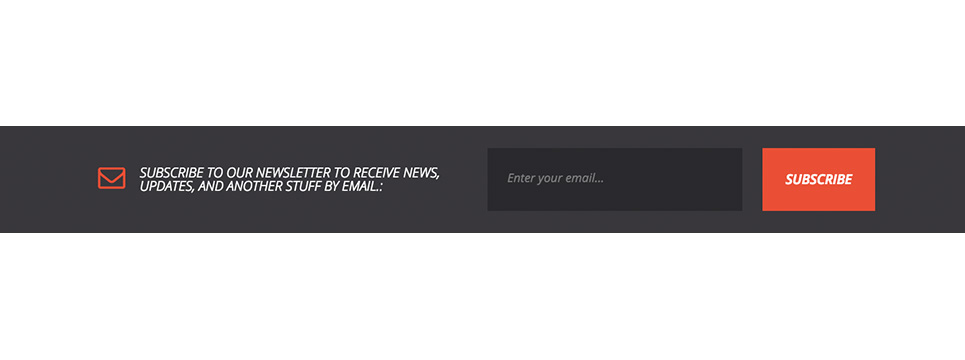
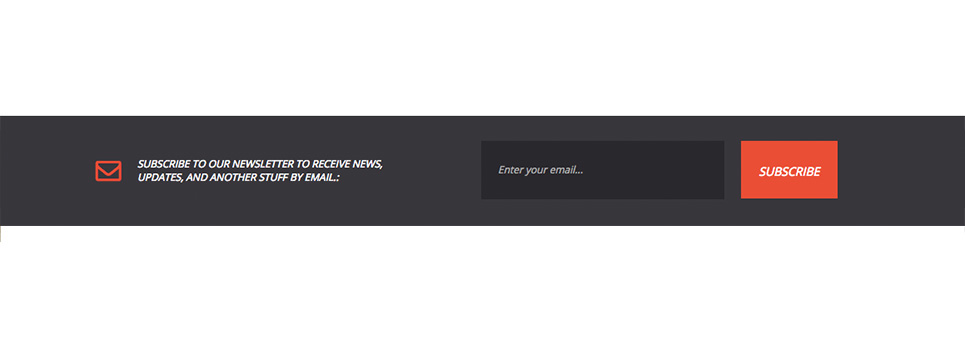
Week 4 WIP

Changed region(s): [[0.0, 0.3056, 1.0, 0.6722], [0.0933, 0.4278, 0.4663, 0.55], [0.4974, 0.4583, 0.6218, 0.5194]]

diff --git a/components/8/component.css b/components/8/component.css
@@ -3,6 +3,125 @@
 COMPONENT STYLESHEET
 ================================================================================ */
 
-/* HEADER ======================================== */
+/* FOOTER ======================================== */
+html { font-size: 62.5%; 
+        width: 100%;}
+body {
+    background-color: #383838;
+    font: 1.6rem sans-serif;
+    max-width: 960px;
+    margin: 0 auto;
+}
 
-/* HEADER ======================================== */
+footer {
+    width: 100%;
+    overflow: auto;
+}
+
+footer h4, footer h2 {
+    font-size: 1.2rem;
+    font-weight: bold;
+    color: #fff;
+    text-transform: uppercase;
+    padding-bottom: 30px;
+}
+
+
+
+input {
+    width: 100%;   
+    padding: 8%;
+    text-transform: uppercase;
+    font-size: .9rem;
+}
+
+input[type="submit"] {
+    background: #eee;
+    font-weight: bold;
+    color: #888;
+    margin-bottom: 2rem;
+}
+
+nav, form {
+    width: calc(100% / 4);
+    display: block;
+    float: left;
+    padding: 2% 7%;
+    padding-bottom: 1000em;
+    margin-bottom: -1000em;
+}
+
+form {
+    background-color: #e01204;
+    padding: 2% 2% 1000em 2%;
+}
+
+form h2 {
+   font-size: 1.5rem;
+}
+
+nav:after {
+    content: "";
+    display: table;
+    clear: both;
+}
+
+footer li a {
+    font-size: 1.2rem;
+    text-transform: uppercase;
+    line-height: 2.5rem;
+    color: #888;
+}
+
+footer:last-child {
+    width: 100%;
+    background: #2c2c2c;
+    color: #888;
+    font-size: .6rem;
+    padding: 1rem 0rem;
+}
+
+footer:last-child p {
+ padding-left: 10%;   
+}
+    
+a.home {
+    color: #e01204;
+}
+
+form li a {
+    display: inline-block; 
+    float: left;
+    width: 2rem;
+    height: 2rem;
+    padding-right: 2.5rem;
+    background: #000;
+    text-indent: -9999px;
+    margin-bottom: 6rem;
+}
+
+a[href*="twitter"] {
+    background: url(images/twitter.svg) no-repeat;
+    background-size: 2rem;
+    color: rgba(255,255,255, .6);
+    opacity: .6;
+}
+
+a[href*="facebook"] {
+    background: url(images/facebook.svg) no-repeat;
+    background-size: 2rem;
+    opacity: .6;
+}
+
+a[href*="youtube"] {
+    background: url(images/youtube.svg) no-repeat;
+    background-size: 2rem;
+    opacity: .6;
+}
+
+
+a[href*="google"] {
+    background: url(images/google.svg) no-repeat;
+    background-size: 2rem;
+    opacity: .6;
+}

diff --git a/components/3/component.html b/components/3/component.html
@@ -31,6 +31,30 @@
 
 <p>Make sure you add a copy to your bookshelf.</p>
                 <ul>
+                    <li><a href="http://www.facebook.com">Facebook</a></li>
+                    <li><a href="http://www.twitter.com">Twitter</a></li>
+                    <li><a href="http://www.pinterest.com">Pinterest</a></li>
+                    <li><a href="http://www.google.com/+">Google+</a></li>
+                    <li><p>8 Shares</p></li>
+                    <li><p>Posted by Glenn on June 19, 2015</p></li>
+
+                <li><a href="#">Comment now</a></li>
+                </ul>
+                
+                
+                
+                
+            </div>
+        </article>
+        
+                <article>
+            <figure><img src="images/alphabetImage.png" alt="Alphabet Logo Image"></figure>
+            <div>
+                <h2><a href="#">Alphabet Logo</a></h2>
+                <p>Our pals at Counterprint have done it again. Their latest book <a href="#">Alphabet Logo</a> is a compendium of logos designed, you guessed it, from letters of the alphabet. Containing over 500 logos from some of the world, this latest release showcases the work of leading design companies like; Bond Creative, Bruce Mau Design, Hype Type Studio, Pentagram, Stockholm Design Lab, Wolff Olins and even a couple of FFF contributors!</p>
+
+<p>Make sure you add a copy to your bookshelf.</p>
+                <ul>
                     <li><a href="#">Facebook</a></li>
                     <li><a href="#">Twitter</a></li>
                     <li><a href="#">Pinterest</a></li>

diff --git a/components/8/component.html b/components/8/component.html
@@ -27,34 +27,38 @@
         <nav>
             <h4>Navigation</h4>
             <ul>
-                <li><a href="#">Home</a></li>
+                <li><a href="#" class="home">Home</a></li>
                 <li><a href="#">About Us</a></li>
                 <li><a href="#">Blog</a></li>
                 <li><a href="#">Contacts</a></li>
             </ul>
          </nav>
-        <aside>
-            <h2>Newsletter</h2>
+
             <form>
+                <h2>Newsletter</h2>
+
                 <p><input type="email" name="email" placeholder="Enter your email" /></p>
                 <p><input type="submit" name="submit" value="Subscribe" /></p>
+                
+                <h4>Follow Us</h4>
+                <ul>
+                    <li><a href="http://www.facebook.com">Facebook</a></li>
+                    <li><a href="http://www.twitter.com">Twitter</a></li>
+                    <li><a href="http://www.google/+">Google+</a></li>
+                    <li><a href="http://www.youtube.com">YouTube</a></li>
+                </ul>
             </form>
             
-            <h4>Follow Us</h4>
-            <ul>
-                <li><a href="#">Facebook</a></li>
-                <li><a href="#">Twitter</a></li>
-                <li><a href="#">Google+</a></li>
-                <li><a href="#">YouTube</a></li>
-            </ul>
-        </aside>
+
 	</footer>
-    
+
     <footer>
         <p>Copyright &copy; 2015 MMA Store. All Rights Reserved. Template Settings</p>
     </footer>
 
+
 	<!-- End Component -->
 	
 </body>
+
 </html>

diff --git a/components/3/component.css b/components/3/component.css
@@ -108,10 +108,10 @@ section > ul > li#current a {
 
 div {
     background: rgba(34, 34, 34, .9);
-    position: absolute;
+    position: relative;
     width: 90%;
-    right: 0;
-    top: 90%;
+    top: -5rem;
+    left: 6.5rem;
 }
 
 div > ul {
@@ -158,7 +158,11 @@ div > ul > li:last-child a {
     font-size:  1.5rem;
     text-indent: 0px;
     width: 15rem;
-    border-bottom: .5rem solid #067a71;s
+    border-bottom: .5rem solid #067a71;
+}
+
+div > ul > li:nth-child(6) {
+    padding-left: 6rem;
 }
 
 div > ul > li:last-child a::before {
@@ -175,4 +179,26 @@ div > ul::after {
     content: "";
     display: table;
     clear: both;
+}
+
+a[href*="twitter"] {
+    background: url(images/twitter.svg) no-repeat;
+    background-size: 2rem;
+    color: rgba(255,255,255, .6);
+}
+
+a[href*="facebook"] {
+    background: url(images/facebook.svg) no-repeat;
+    background-size: 2rem;
+}
+
+a[href*="pinterest"] {
+    background: url(images/pinterest.svg) no-repeat;
+    background-size: 2rem;
+}
+
+
+a[href*="google"] {
+    background: url(images/google.svg) no-repeat;
+    background-size: 2rem;
 }

diff --git a/index.html b/index.html
@@ -125,7 +125,7 @@
         </article> 
         
         <article class="blog">
-            <img class="component" src="components/8/component.jpg" alt="Component: Header"/>
+            <img class="component" src="components/8/component.png" alt="Component: Header"/>
             <h2>Component #8: Footer </h2>
             <h3>Target Audience</h3>
                 The target audience for this footer is MMA fans. This site features MMA fighters and merchandise for fans. A mix of men and women, however more likely men. Their age ranges from 25 to 35.</p>
